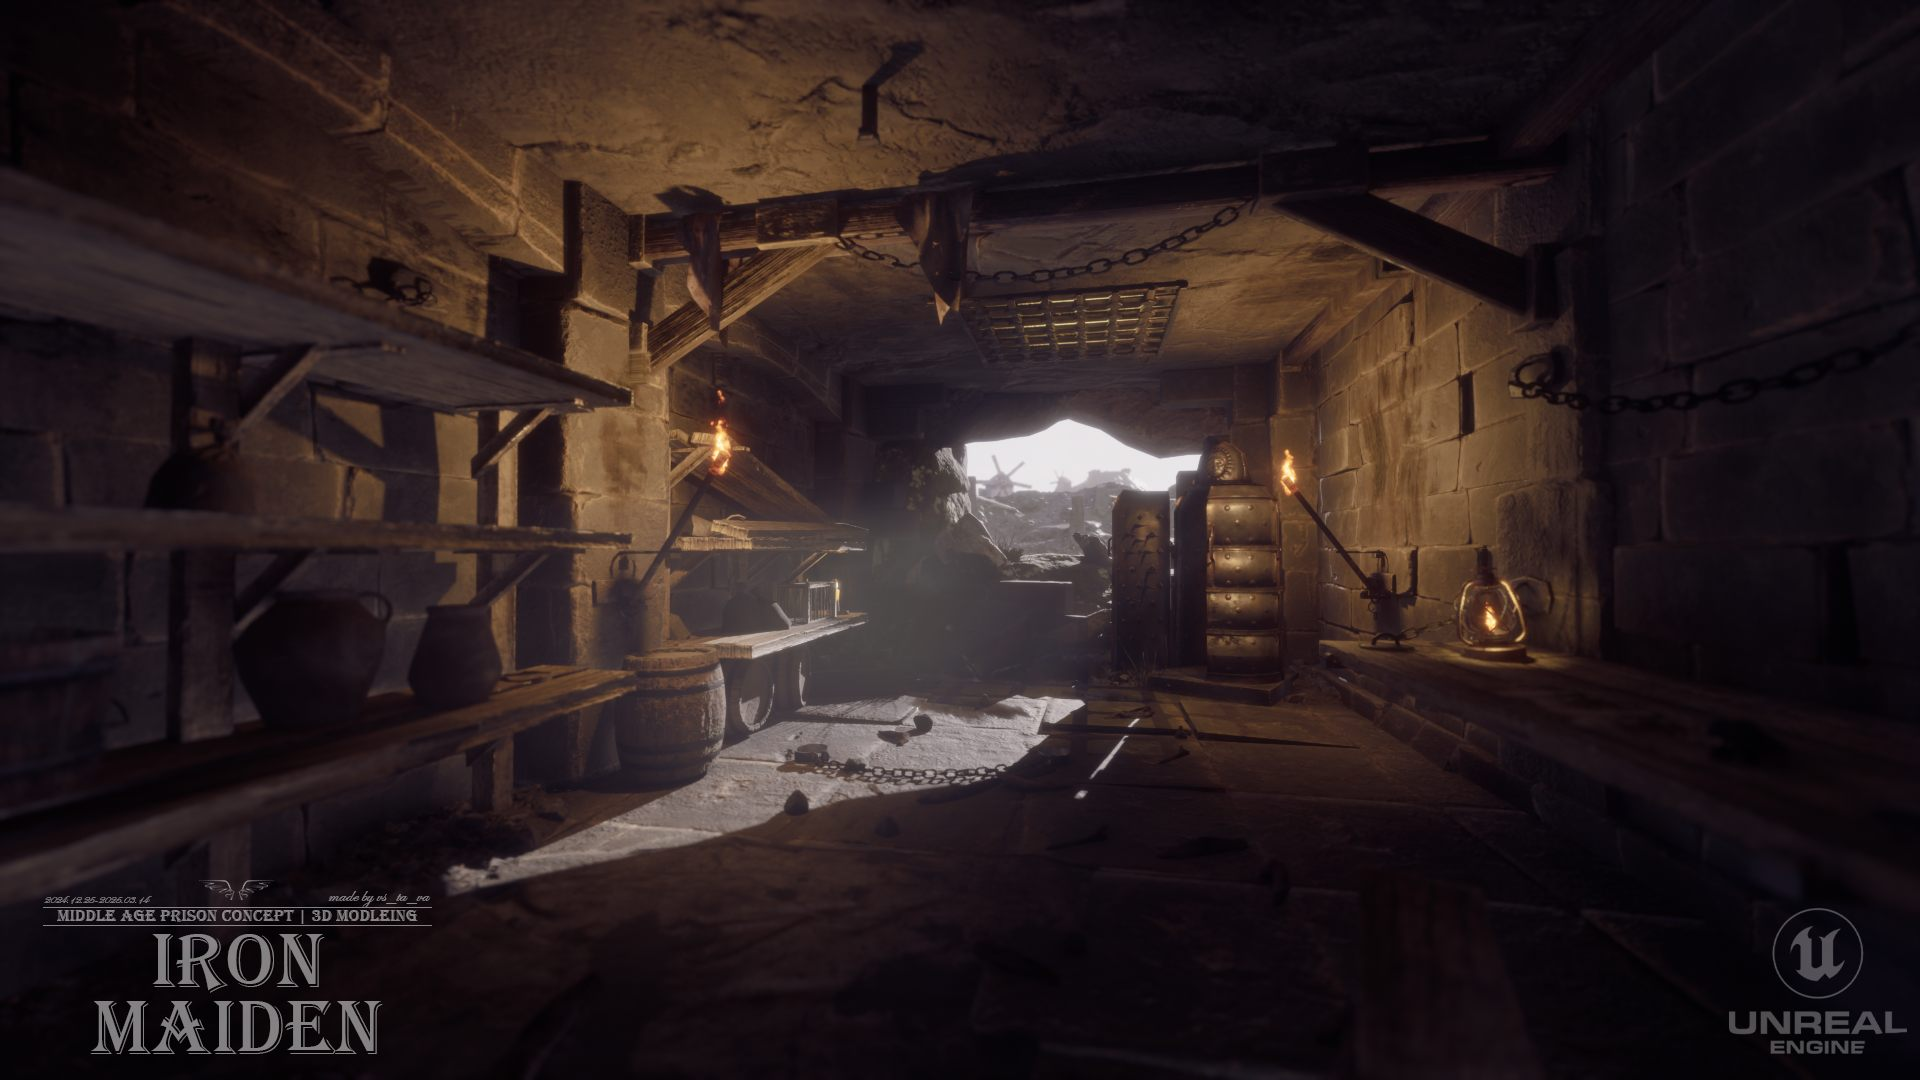
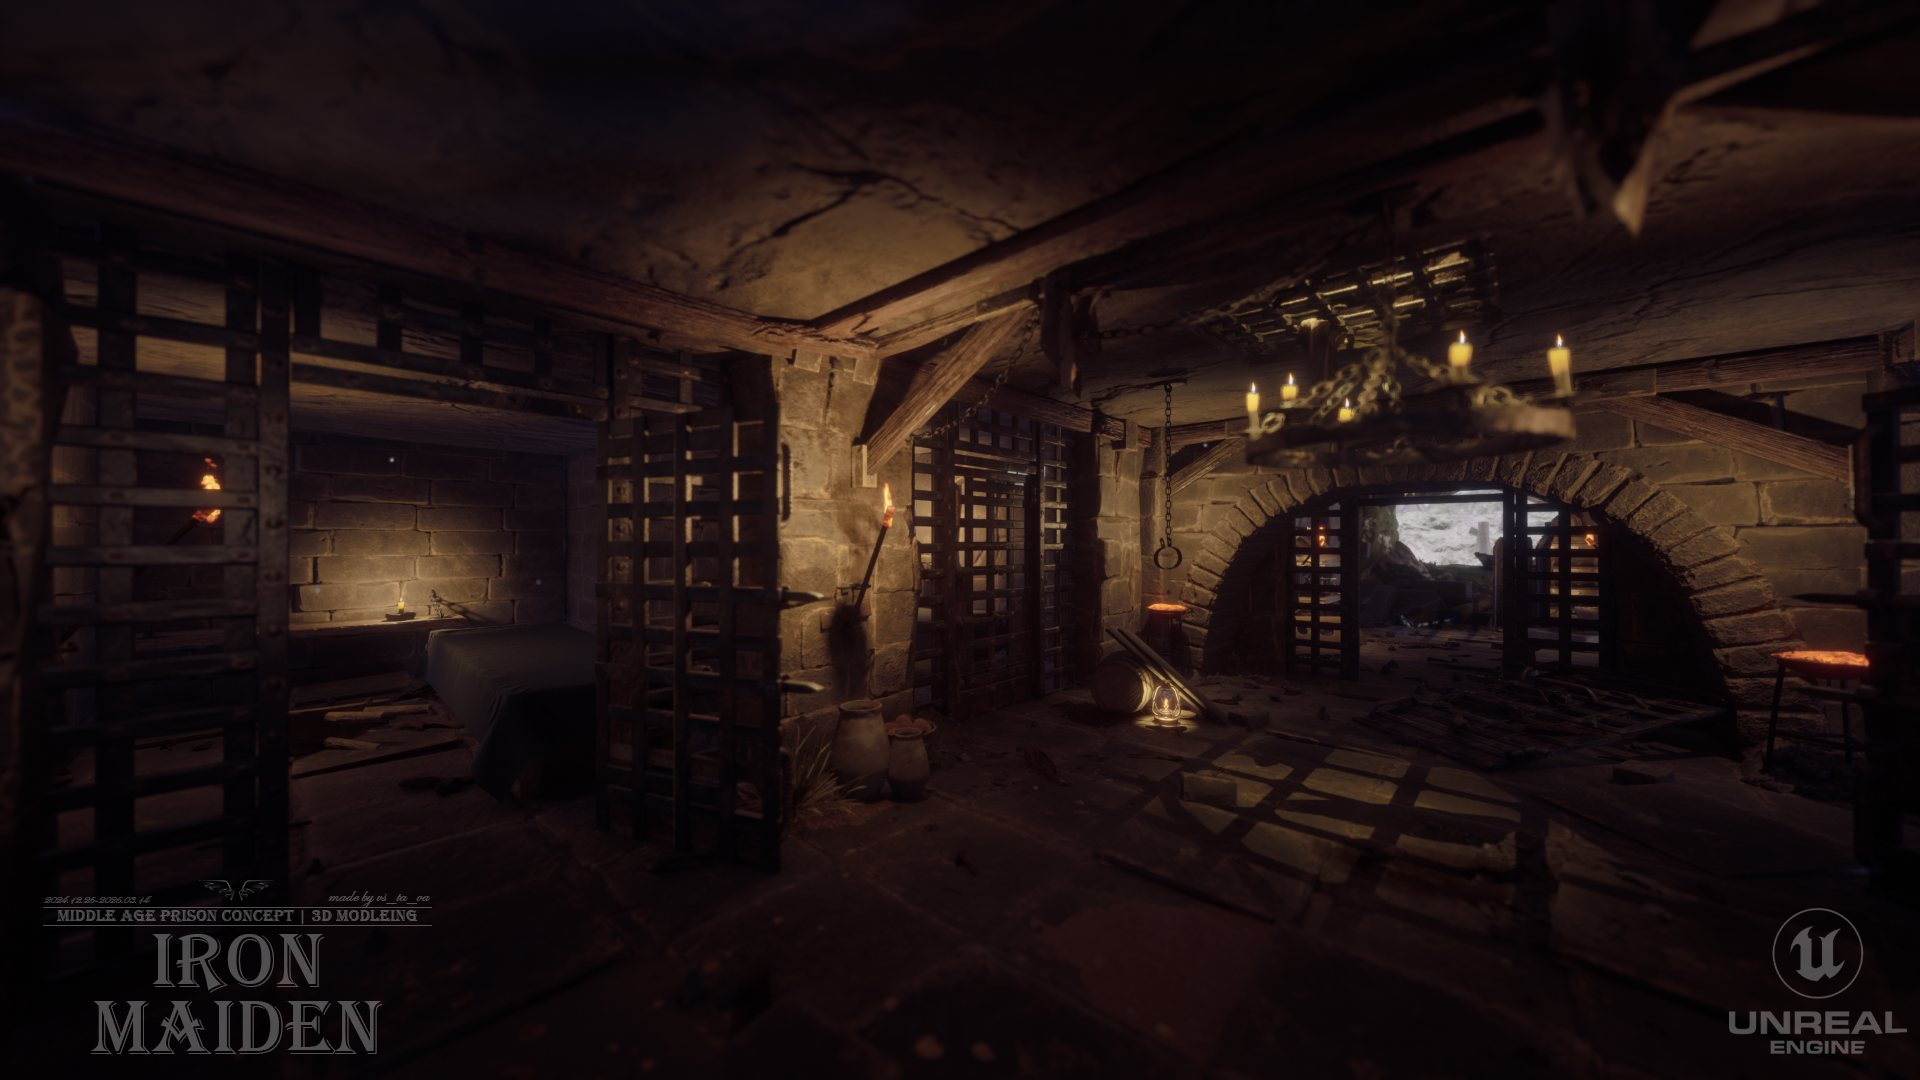
Iron Maiden 이미지 새 렌더로 전량 교체 (12 -> 15장)
- 새 렌더 15장(00~08 + main + before01~03 + prop + wire)을 PNG->JPEG 변환 교체
- README 중복 붙여넣기(06 2개, BEFORE_LIGHTING_01 2개) 해시로 걸러 정리
- 모달 배열에 iron-06/07/08 추가, 카드 캡션 12 -> 15장
- assets/README 이미지 태그 정리 및 수록현황 갱신

diff --git a/index.html b/index.html
@@ -799,7 +799,7 @@ footer {
           <img src="assets/portfolio/iron-main.jpg" alt="Iron Maiden" loading="lazy">
           <span class="art-open">클릭하여 작품 보기 →</span>
         </div>
-        <figcaption><span class="art-title">Iron Maiden</span><span class="art-meta">2025 · UE5 · 이미지 12장</span></figcaption>
+        <figcaption><span class="art-title">Iron Maiden</span><span class="art-meta">2025 · UE5 · 이미지 15장</span></figcaption>
       </figure>
 
       <figure class="art-card" onclick="openProject('mol')" tabindex="0" role="button" aria-label="M.O.L. 상세 보기">
@@ -1341,7 +1341,7 @@ const projects = {
     linkText: "ArtStation에서 보기",
     link2: "https://youtu.be/M8MiBDA1NMo",
     linkText2: "YouTube에서 보기",
-    images: ["iron-main",{video:"M8MiBDA1NMo"},"iron-00","iron-01","iron-02","iron-03","iron-04","iron-05","iron-before-01","iron-before-02","iron-before-03","iron-wire","iron-prop"]
+    images: ["iron-main",{video:"M8MiBDA1NMo"},"iron-00","iron-01","iron-02","iron-03","iron-04","iron-05","iron-06","iron-07","iron-08","iron-before-01","iron-before-02","iron-before-03","iron-wire","iron-prop"]
   },
   mol: {
     title: "M.O.L. (My Observation Log)",

diff --git a/assets/README.md b/assets/README.md
@@ -1,21 +1,6 @@
-<img width="1920" height="1080" alt="IRON_MAIDEN_김성준_BEFORE_LIGHTING_01" src="https://github.com/user-attachments/assets/c88141bc-1d5f-4a2e-aff5-a56399b45678" /># assets
+# assets
 
 포트폴리오에 들어갈 파일을 여기에 넣고 push 하면 Vercel이 서빙합니다.
-<img width="1920" height="1080" alt="IRON_MAIDEN_김성준" src="https://github.com/user-attachments/assets/eabdd0c2-7750-4bcd-a381-00f23445cbee" />
-<img width="1920" height="1080" alt="IRON_MAIDEN_김성준_00" src="https://github.com/user-attachments/assets/2735e424-75b5-4b19-a7f1-3cd7b305ea21" />
-<img width="1920" height="1080" alt="IRON_MAIDEN_김성준_01" src="https://github.com/user-attachments/assets/bbcd8ccc-5739-4567-bebd-cbead1fd70f0" />
-<img width="1920" height="1080" alt="IRON_MAIDEN_김성준_02" src="https://github.com/user-attachments/assets/9d8817ff-25f1-4282-ab3b-6ab96c0c3491" />
-<img width="1920" height="1080" alt="IRON_MAIDEN_김성준_03" src="https://github.com/user-attachments/assets/b69dd2fd-c688-4e3d-9ab4-d464fe7a778a" />
-<img width="1920" height="1080" alt="IRON_MAIDEN_김성준_04" src="https://github.com/user-attachments/assets/86543375-6e7c-4a22-ae7d-1261fb06a3fc" /><img width="1920" height="1080" alt="IRON_MAIDEN_김성준_06" src="https://github.com/user-attachments/assets/beed77da-0b7b-4414-b1be-02990a3a7fb8" />
-<img width="1920" height="1080" alt="IRON_MAIDEN_김성준_05" src="https://github.com/user-attachments/assets/69e796a3-8eb4-488d-b068-de75d3029ff8" />
-<img width="1920" height="1080" alt="IRON_MAIDEN_김성준_06" src="https://github.com/user-attachments/assets/1320bd31-db7a-47e8-a117-4a22863fbd88" />
-<img width="1920" height="1080" alt="IRON_MAIDEN_김성준_07" src="https://github.com/user-attachments/assets/517d7830-71f9-4894-9799-eda9f850b313" />
-<img width="1920" height="1080" alt="IRON_MAIDEN_김성준_08" src="https://github.com/user-attachments/assets/fb26d520-97d3-4f8e-939c-cff63c773cdb" />
-<img width="1920" height="1080" alt="IRON_MAIDEN_김성준_BEFORE_LIGHTING_01" src="https://github.com/user-attachments/assets/4745ca30-e8b0-48ed-bffe-793cd0fa4e96" />
-<img width="1920" height="1080" alt="IRON_MAIDEN_김성준_BEFORE_LIGHTING_02" src="https://github.com/user-attachments/assets/e5faedf9-248e-4e9c-b2e4-b3ec234e67f3" />
-<img width="1920" height="1080" alt="IRON_MAIDEN_김성준_BEFORE_LIGHTING_03" src="https://github.com/user-attachments/assets/a3273b00-79df-4f7a-a11b-eb64c04ed6bf" />
-<img width="1920" height="1080" alt="IRON_MAIDEN_김성준_PROP" src="https://github.com/user-attachments/assets/013acf60-d426-4062-a187-9182df85b810" />
-<img width="1920" height="1080" alt="IRON_MAIDEN_김성준_WIRE" src="https://github.com/user-attachments/assets/7cb66715-6daf-4353-b3d7-721622a47c30" />
 
 ## 폴더 구조
 
@@ -53,7 +38,7 @@ main → (영상) → 00 → 렌더 오름차순 → ortho/before → wire → p
 | 작품 | 장수 | 파일 |
 |---|---|---|
 | Sagrada Familia | 16 | `sagrada-main`, `sagrada-00`~`10`, `sagrada-ortho-before`, `sagrada-ortho`, `sagrada-wire`, `sagrada-prop` |
-| Iron Maiden | 12 | `iron-main`, `iron-00`~`05`, `iron-before-01`~`03`, `iron-wire`, `iron-prop` |
+| Iron Maiden | 15 | `iron-main`, `iron-00`~`08`, `iron-before-01`~`03`, `iron-wire`, `iron-prop` |
 | M.O.L. | 13 | `mol-blue-main`, `mol-blue-00`~`04`, `mol-blue-wire`, `mol-blue-prop`, `mol-orange-01`~`03`, `mol-orange-wire`, `mol-orange-prop` |
 
 카드 캡션의 "이미지 N장" 표기도 함께 맞춰야 합니다.
